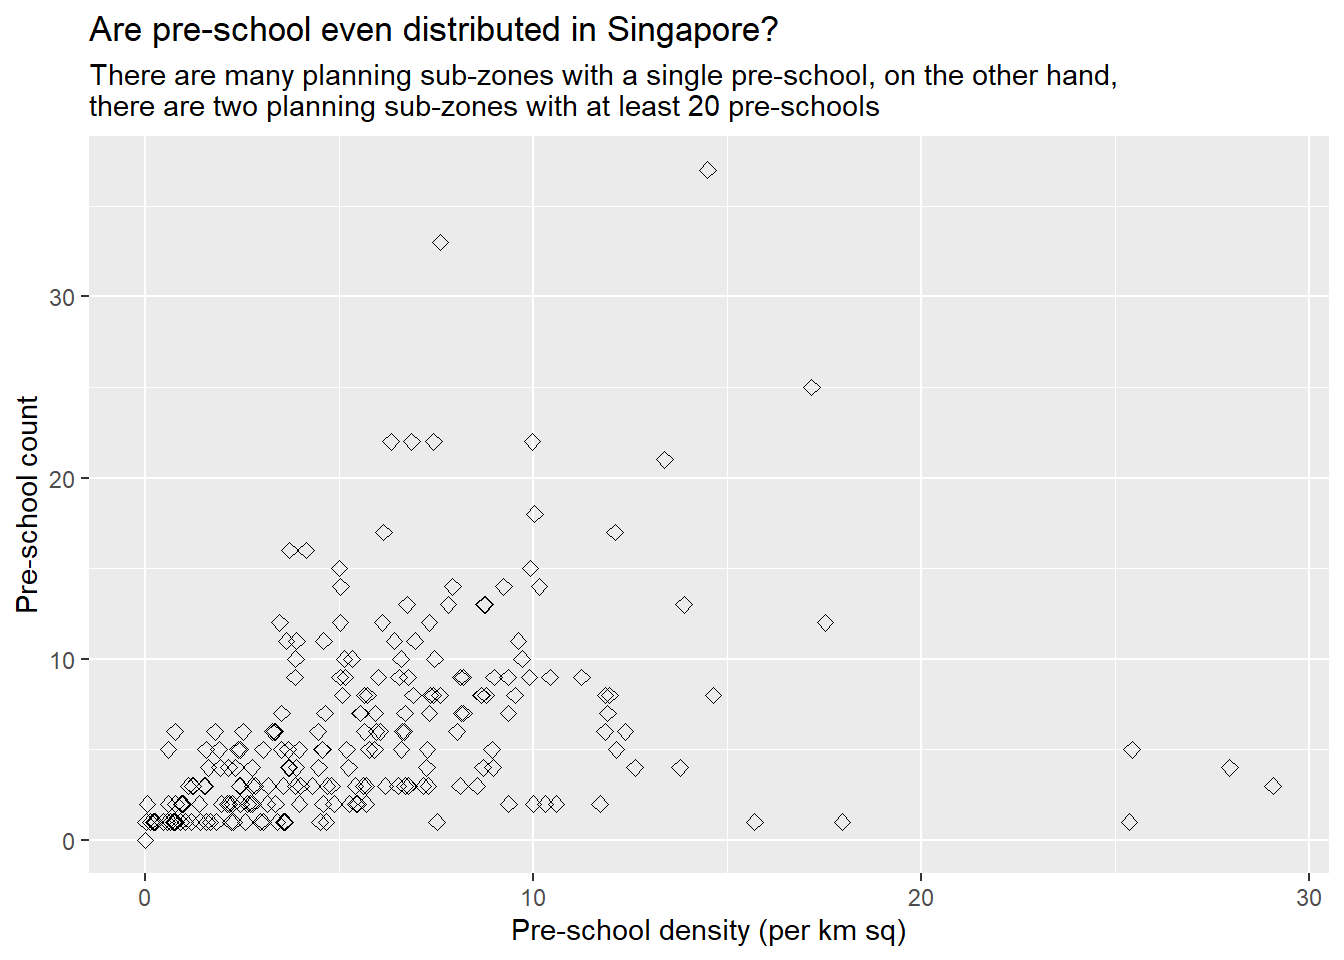
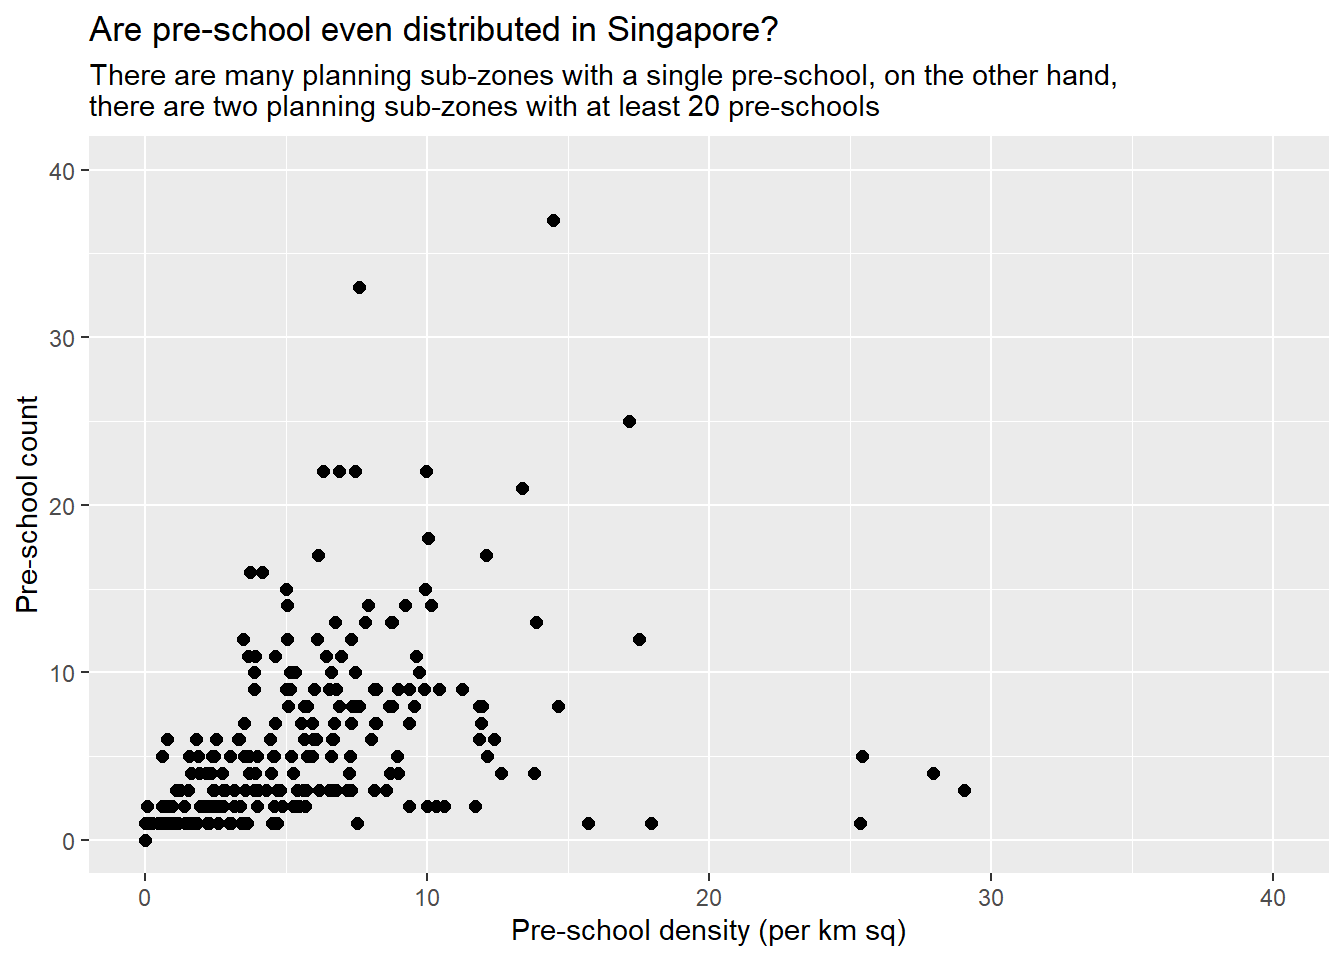
Commit 6th revision on Hands-on Exercise 1

diff --git a/_site/Hands-on_Ex1/Hands-on_Ex1.html b/_site/Hands-on_Ex1/Hands-on_Ex1.html
@@ -741,11 +741,12 @@ Projected CRS: SVY21 / Singapore TM
 <div class="cell">
 <div class="sourceCode cell-code" id="cb50"><pre class="sourceCode r code-with-copy"><code class="sourceCode r"><span id="cb50-1"><a href="#cb50-1" aria-hidden="true" tabindex="-1"></a><span class="fu">ggplot</span>(<span class="at">data=</span>mpsz3414, </span>
 <span id="cb50-2"><a href="#cb50-2" aria-hidden="true" tabindex="-1"></a>       <span class="fu">aes</span>(<span class="at">x=</span> <span class="fu">as.numeric</span>(<span class="st">`</span><span class="at">PreSch Density</span><span class="st">`</span>),<span class="at">y=</span><span class="st">`</span><span class="at">PreSch Count</span><span class="st">`</span>))<span class="sc">+</span></span>
-<span id="cb50-3"><a href="#cb50-3" aria-hidden="true" tabindex="-1"></a>  <span class="fu">geom_point</span>(<span class="at">size=</span><span class="dv">2</span>, <span class="at">shape=</span><span class="dv">23</span>) <span class="sc">+</span></span>
+<span id="cb50-3"><a href="#cb50-3" aria-hidden="true" tabindex="-1"></a>  <span class="fu">geom_point</span>(<span class="at">colour =</span> <span class="st">"black"</span>, <span class="at">size=</span><span class="dv">2</span>) <span class="sc">+</span></span>
 <span id="cb50-4"><a href="#cb50-4" aria-hidden="true" tabindex="-1"></a>  <span class="fu">labs</span>(<span class="at">title =</span> <span class="st">"Are pre-school even distributed in Singapore?"</span>,</span>
 <span id="cb50-5"><a href="#cb50-5" aria-hidden="true" tabindex="-1"></a>       <span class="at">subtitle=</span> <span class="st">"There are many planning sub-zones with a single pre-school, on the other hand, </span><span class="sc">\n</span><span class="st">there are two planning sub-zones with at least 20 pre-schools"</span>,</span>
 <span id="cb50-6"><a href="#cb50-6" aria-hidden="true" tabindex="-1"></a>      <span class="at">x =</span> <span class="st">"Pre-school density (per km sq)"</span>,</span>
-<span id="cb50-7"><a href="#cb50-7" aria-hidden="true" tabindex="-1"></a>      <span class="at">y =</span> <span class="st">"Pre-school count"</span>)</span></code><button title="Copy to Clipboard" class="code-copy-button"><i class="bi"></i></button></pre></div>
+<span id="cb50-7"><a href="#cb50-7" aria-hidden="true" tabindex="-1"></a>      <span class="at">y =</span> <span class="st">"Pre-school count"</span>) <span class="sc">+</span></span>
+<span id="cb50-8"><a href="#cb50-8" aria-hidden="true" tabindex="-1"></a>  <span class="fu">expand_limits</span>(<span class="at">x=</span><span class="fu">c</span>(<span class="dv">0</span>,<span class="dv">40</span>),<span class="at">y=</span><span class="fu">c</span>(<span class="dv">0</span>,<span class="dv">40</span>))</span></code><button title="Copy to Clipboard" class="code-copy-button"><i class="bi"></i></button></pre></div>
 <div class="cell-output-display">
 <p><img src="Hands-on_Ex1_files/figure-html/unnamed-chunk-29-1.png" class="img-fluid" width="672"></p>
 </div>
